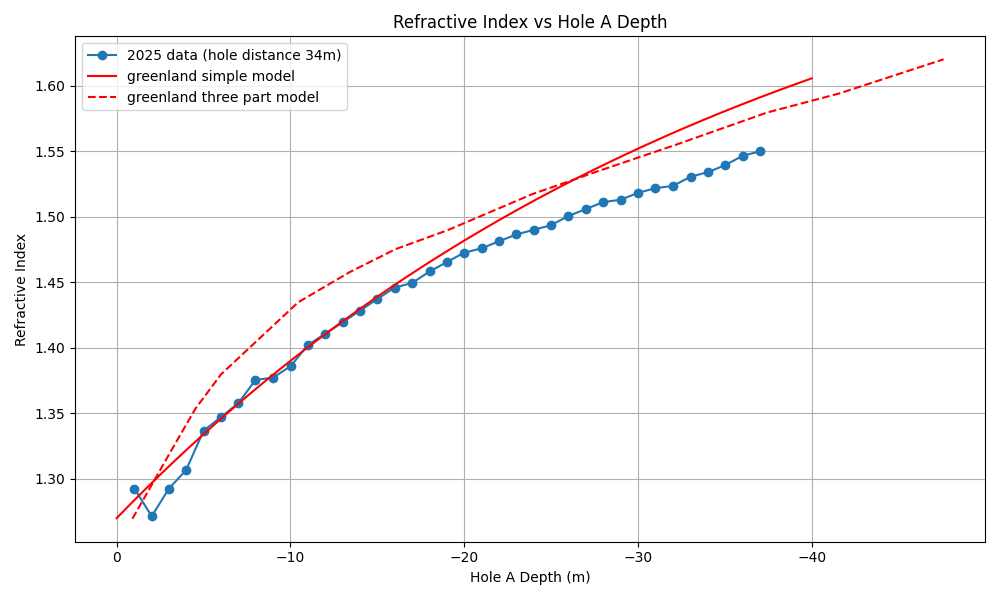
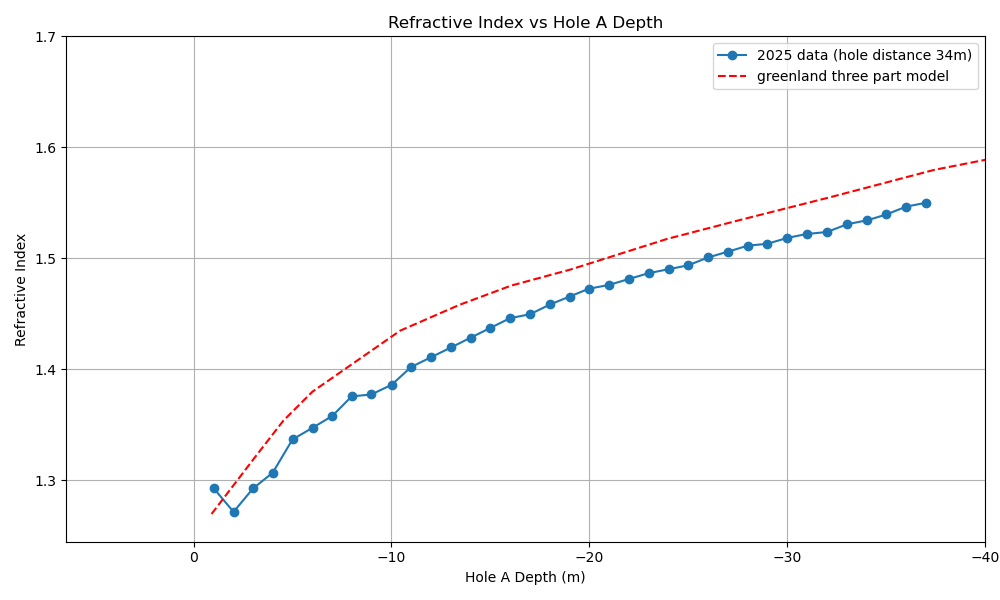
modular scripts

diff --git a/all_locs_ior.py b/all_locs_ior.py
@@ -1,0 +1,154 @@
+import pandas as pd
+import matplotlib.pyplot as plt
+import imageio
+import os
+from glob import glob
+from scipy.signal import find_peaks
+import numpy as np
+from scipy.constants import c
+import argparse
+from geopy.distance import geodesic
+
+import sys
+sys.path.append('/Users/nathanielalden/Downloads/RNO-G/t_abs_pulsing')
+import delay_utils
+
+def load_GPS_distance(station, drop_name):
+    #TODO: load in yaml file when ready
+    #if drop_name = 
+    if drop_name == "pulsing_b_a_down":
+        point_a = (72.617925736, -38.410023642)
+        point_b = (72.618200468, -38.409498297)
+    elif drop_name == "pulsing_b_c_down":
+        point_a = (72.617925736, -38.410023642)
+        point_b = (72.618196808, -38.410535718)
+
+    baseline = geodesic(point_a, point_b).meters
+    print(f"Distance: {baseline:.4f} meters for station {station}, {drop_name}")
+
+    return baseline
+
+def find_cable_delays(station, drop_name):
+    script_dir = os.path.dirname(__file__)
+    TDR_folder = f"{script_dir}/raw_data/station_{station}/cableTDR_{drop_name}"
+    if drop_name == "pulsing_b_a_down":
+        rx_file = "SRF_T73.CSV"
+        tx_file = "SRF_T74.CSV"
+    elif drop_name == "pulsing_b_c_down":
+        rx_file = "SRF_T114.CSV"
+        tx_file = "SRF_T115.CSV"
+
+    cable_a = delay_utils.get_cable_delay(f"{TDR_folder}/{rx_file}", cable = "TX")*1e-9
+    cable_b = delay_utils.get_cable_delay(f"{TDR_folder}/{tx_file}", cable = "RX")*1e-9
+
+    #cable_a = 557.32e-9
+    #cable_b = 307.38e-9
+
+    jumper_cable = 2.968e-9
+
+    return cable_a, cable_b, jumper_cable
+
+def find_time_delay(time, ch1, ch3, thresh = 0.001):
+    min_ch1_idx = ch1.argmin()
+    min_ch1_time = time[min_ch1_idx]
+
+    above_thresh = (ch3 > thresh).nonzero()[0]
+    if len(above_thresh) == 0:
+        raise ValueError(f"ch3 never exceeds {thresh} V")
+
+    start_idx = above_thresh[0]
+    peaks, _ = find_peaks(ch3[start_idx:])
+    if len(peaks) == 0:
+        raise ValueError("No peaks after threshold")
+
+    peak_time = time[start_idx + peaks[0]]
+    delta_t = peak_time - min_ch1_time
+
+    return delta_t
+
+
+def find_time_and_depth(data_folder, metadata_file):
+    with open(metadata_file, 'r') as f:
+        lines = f.readlines()
+
+    for idx, line in enumerate(lines):
+        if line.strip().startswith("#hole A [m]"):
+            data_start = idx
+            break
+
+    metadata = pd.read_csv(metadata_file, skiprows=data_start + 1, sep=None, engine="python")
+    metadata.columns = ["hole_a_m", "hole_b_m", "filename", "alt_filename"]
+    metadata = metadata.dropna(subset=["filename"])  
+    depths = []
+    delta_t_list = []
+
+    for i, row in metadata.iterrows():
+        fname = row["filename"]
+        hole_a_depth = row["hole_a_m"]
+        full_path = os.path.join(data_folder, fname + ".CSV")
+
+        if not os.path.isfile(full_path):
+            print(f"⚠ File not found: {fname}.CSV")
+            continue
+
+        try:
+            df = pd.read_csv(full_path)
+            column_map = {
+                'time': 'in s',
+                'ch1': 'C1 in V',
+                'ch3': 'C3 in V'
+            }
+
+            time = df[column_map['time']].values
+            ch1 = df[column_map['ch1']].values
+            ch3 = df[column_map['ch3']].values
+
+            delta_t = find_time_delay(time, ch1, ch3)
+
+            depths.append(hole_a_depth)
+            delta_t_list.append(delta_t)
+
+        except Exception as e:
+            print(f"⚠ Skipping {fname}: {e}")
+
+    return np.array(depths), np.array(delta_t_list)
+
+def plot_multiple_measurements(stations, drop_names):
+    script_dir = os.path.dirname(__file__)
+    save_plots = os.path.join(script_dir, f"plots/")
+    #save_plots = os.path.join(script_dir, f"{rootdir}/prel_analysis/results/{args.station}/{args.meas}/plots/")
+
+    plt.figure(figsize=(10, 6))
+    for station, drop_name in zip(stations, drop_names):
+        print(station, drop_name)
+        data_folder = os.path.join(script_dir, f"raw_data/station_{station}/{drop_name}/")
+        metadata_file = os.path.join(script_dir, f"raw_data/station_{station}/meta_{drop_name}.csv")
+        
+        baseline = load_GPS_distance(station, drop_name)
+        cable_a, cable_b, jumper_cable = find_cable_delays(station, drop_name)
+
+        depths, delta_t = find_time_and_depth(data_folder, metadata_file)
+        ior = (c * (delta_t - cable_a - cable_b + jumper_cable)) / baseline
+        plt.plot(-depths, ior, marker='o', linestyle='-', label= f'station {station}: Baseline {baseline:.2f}m)')
+
+    #Now overplot ice models
+    three_part_file = os.path.join(script_dir, f"raw_data/Greenland_ice_model.csv")  
+    df = pd.read_csv(three_part_file, header=None, names=["depth", "refractive_index"])
+    plt.plot(-df["depth"], df["refractive_index"], color='r', linestyle='--', label= 'greenland three part model')
+
+    plt.xlabel("Hole Depth (m)")
+    plt.ylabel("Refractive Index")
+    plt.grid(True)
+    plt.legend()
+    plt.gca().invert_xaxis()  # Optional: deeper values lower
+    plt.tight_layout()
+    #plt.show()
+    plt.xlim(right = -100)
+    plt.ylim(top = 1.8)
+    plt.savefig(save_plots + 'refractive_index.png')
+
+if __name__ == "__main__":
+    stations = [34, 34]
+    drop_names = ["pulsing_b_a_down", "pulsing_b_c_down"]
+
+    plot_multiple_measurements(stations, drop_names)

diff --git a/prel_analysis/refractive_index.py b/prel_analysis/refractive_index.py
@@ -8,38 +8,40 @@ from scipy.signal import find_peaks
 import numpy as np
 from scipy.constants import c
 import argparse
+from geopy.distance import geodesic
+
+import sys
+sys.path.append('/Users/nathanielalden/Downloads/RNO-G/t_abs_pulsing')
+import delay_utils
 
 
 parser = argparse.ArgumentParser()
 
-parser.add_argument('stat', type=str, help='station_XX')
-parser.add_argument('meas', type=str, help='pulsing_a_b')
-
-parser.add_argument('bound', type=float, nargs='?', default=0.001,)
+parser.add_argument("--station", action = "store", dest = "station", help='station_XX')
+parser.add_argument("--meas", action = "store", dest = "meas", help='pulsing_a_b')
+parser.add_argument("--bound", action = "store", dest = "bound", default=0.001, help='pulsing_a_b')
 
 args = parser.parse_args()
 
 script_dir = os.path.dirname(__file__)
+data_folder = os.path.join(script_dir, f"../raw_data/{args.station}/{args.meas}/")
+metadata_file = os.path.join(script_dir, f"../raw_data/{args.station}/meta_{args.meas}.csv")
+#save_plots = os.path.join(script_dir, f"{rootdir}/prel_analysis/results/{args.station}/{args.meas}/plots/")
+save_plots = os.path.join(script_dir, f"../plots/")  
 
-data_folder = os.path.join(script_dir, f"../raw_data/{args.stat}/{args.meas}/")
-metadata_file = os.path.join(script_dir, f"../raw_data/{args.stat}/meta_{args.meas}.csv")
-save_plots = os.path.join(script_dir, f"../prel_analysis/results/{args.stat}/{args.meas}/plots/")
- 
+
 three_part_file = os.path.join(script_dir, f"../raw_data/Greenland_ice_model.csv")  
 
-"""
-from geopy.distance import geodesic
+point_a = (72.617925736, -38.410023642)
+point_b = (72.618200468, -38.409498297)
 
-point_a = (72.630667604, -38.441826547)
-point_b = (72.63094567500001, -38.441286414)
+baseline = geodesic(point_a, point_b).meters
+print(f"Distance: {baseline:.4f} meters")
+#baseline = 34.6
 
-distance_m = geodesic(point_a, point_b).meters
-print(f"Distance: {distance_m:.4f} meters")
-"""
-baseline = 34
-
-cable_a = 307.4e-9
-cable_b = 307.4e-9
+cable_a = 557.32e-9
+cable_b = 307.38e-9
+jumper_cable = 2.968e-9
 
 with open(metadata_file, 'r') as f:
     lines = f.readlines()
@@ -93,7 +95,7 @@ for i, row in metadata.iterrows():
         peak_time = time[start_idx + peaks[0]]
         delta_t = peak_time - min_ch1_time
 
-        n = (c * (delta_t - cable_a - cable_b)) / baseline
+        n = (c * (delta_t - cable_a - cable_b + jumper_cable)) / baseline
 
         depths.append(hole_a_depth)
         refractive_indices.append(n)
@@ -122,7 +124,7 @@ np.save(save_plots + 'refractive_index.npy', results_index)
 
 plt.figure(figsize=(10, 6))
 plt.plot(- np.array(depths), refractive_indices, marker='o', linestyle='-', label= f'2025 data (hole distance {baseline}m)')
-plt.plot(all_depth, n_g_simple, color='r', linestyle='-', label= 'greenland simple model')
+#plt.plot(all_depth, n_g_simple, color='r', linestyle='-', label= 'greenland simple model')
 plt.plot(-df["depth"], df["refractive_index"], color='r', linestyle='--', label= 'greenland three part model')
 
 #plt.plot(three_part_n["depth_3"], three_part_n["index_3"], color='r', linestyle='--', label= 'greenland three part model')
@@ -135,6 +137,8 @@ plt.legend()
 plt.gca().invert_xaxis()  # Optional: deeper values lower
 plt.tight_layout()
 #plt.show()
+plt.xlim(right = -75)
+plt.ylim(top = 1.8)
 plt.savefig(save_plots + 'refractive_index.png')
 
 plt.figure(figsize=(10, 6))

diff --git a/delay_utils.py b/delay_utils.py
@@ -61,11 +61,19 @@ def get_cable_delay(filename, cable = None):
     return upsample_delta_t/2
 
 if __name__ == "__main__":
-    tx_file = "SRF_T46.CSV"
-    rx_file = "SRF_T47.CSV"
-    jumper_file = "SRF_T48.CSV"
-    get_cable_delay(f"050825/cableTDR/{rx_file}", cable = "RX")
-    get_cable_delay(f"050825/cableTDR/{tx_file}", cable = "TX")
-    get_cable_delay(f"050825/cableTDR/{jumper_file}", cable = "Jumper")
+   # tx_file = "SRF_T46.CSV"
+    #rx_file = "SRF_T47.CSV"
+    #jumper_file = "SRF_T48.CSV"
+    tx_file = "SRF_T73.CSV"
+    rx_file = "SRF_T74.CSV"
+
+    tx_file = "SRF_T142.CSV"
+    rx_file = "SRF_T143.CSV"
+    #jumper_file = "SRF_T48.CSV"
+
+    basepath = "raw_data/station_34"
+    get_cable_delay(f"{basepath}/cableTDR/{rx_file}", cable = "RX")
+    get_cable_delay(f"{basepath}/cableTDR/{tx_file}", cable = "TX")
+    #get_cable_delay(f"050825/cableTDR/{jumper_file}", cable = "Jumper")
 
 
